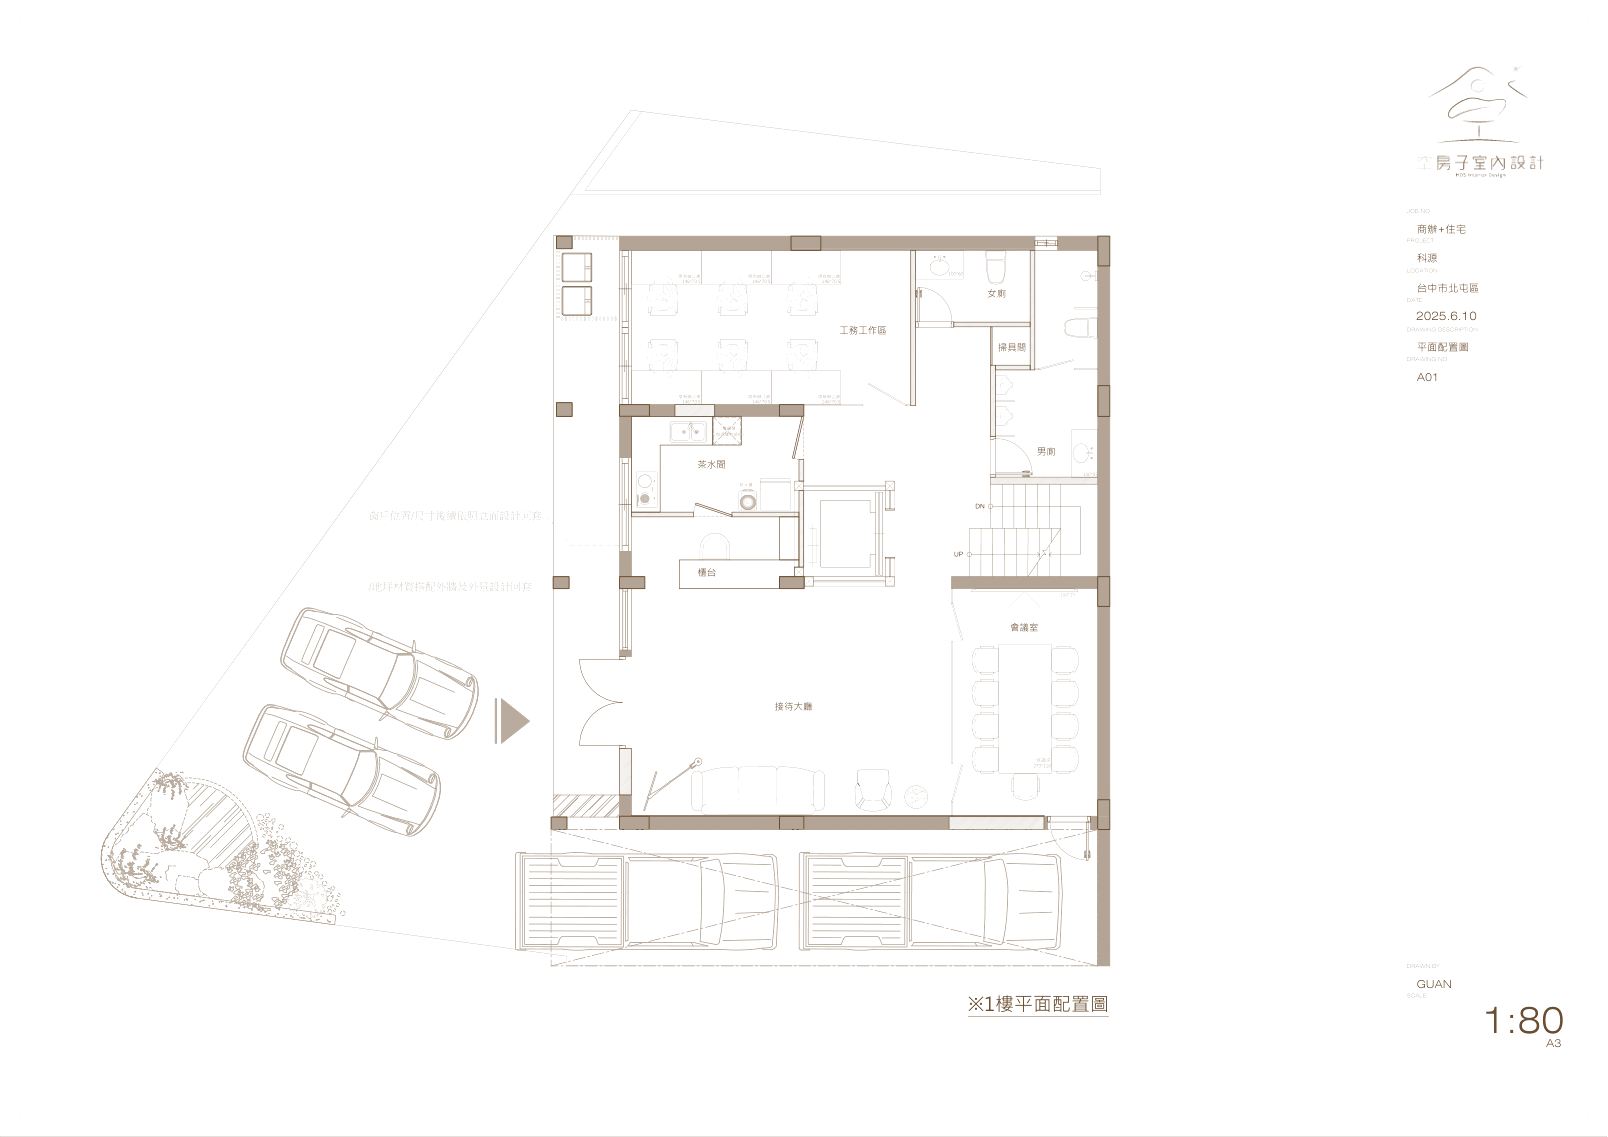
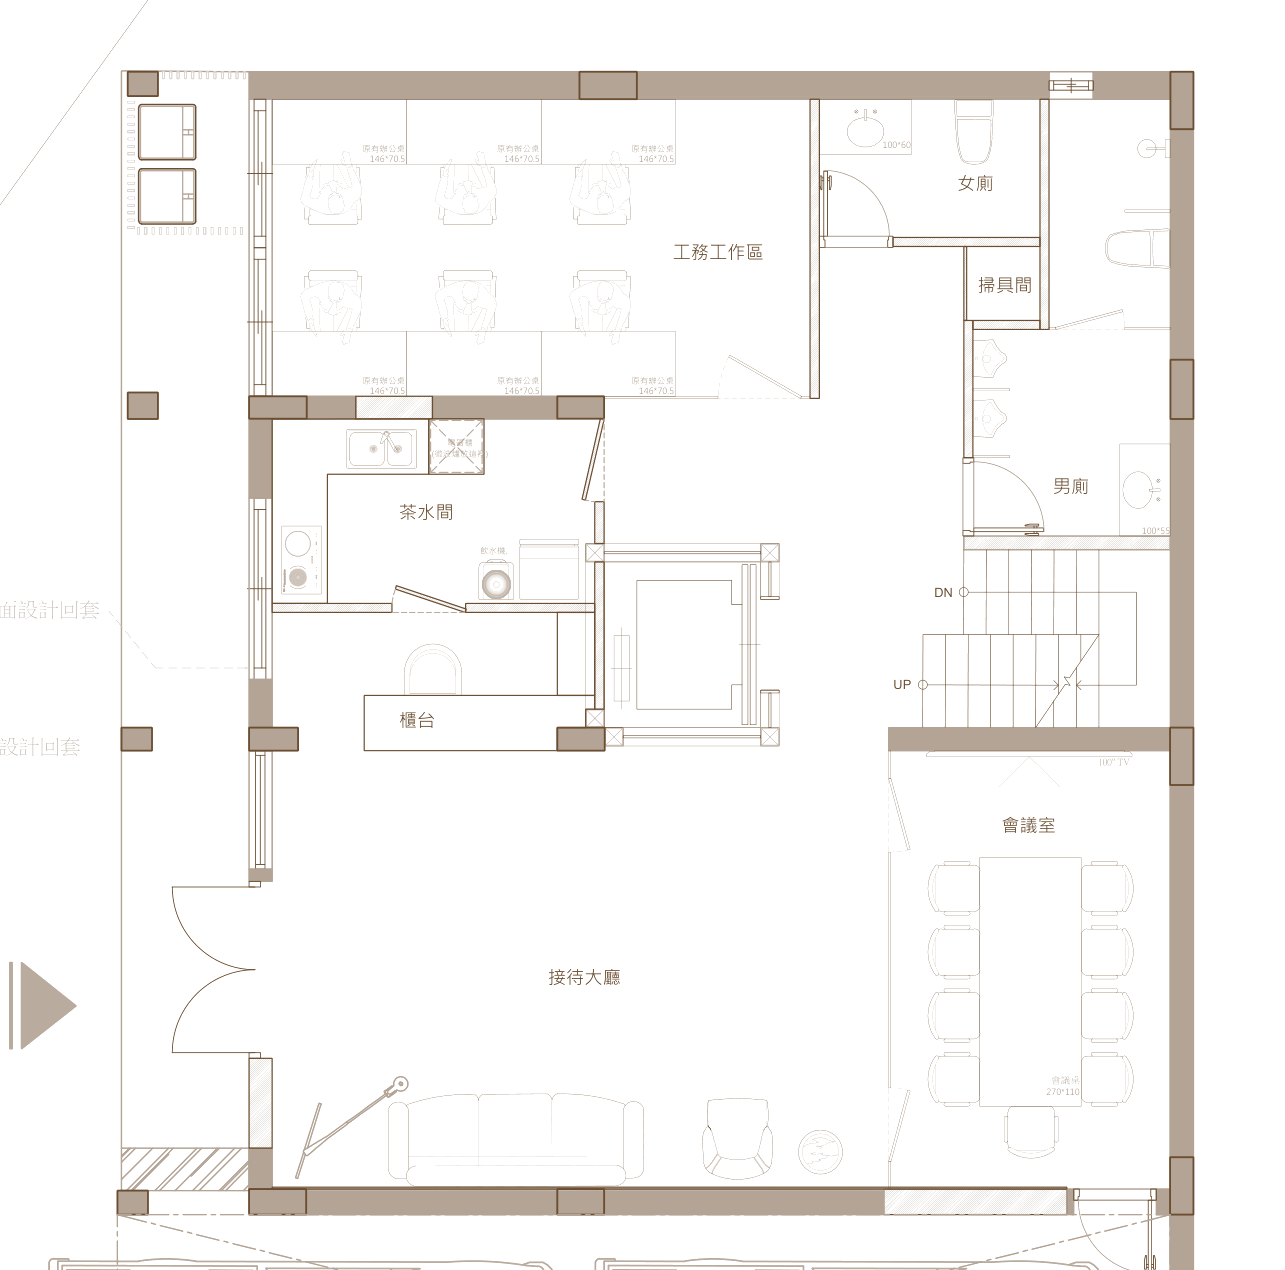
平面圖改用乾淨建物裁切版，置中放大、傾斜、放滿區塊、加深至0.46
Claude-Session: https://claude.ai/code/session_01Wm3jhjPCgg9FD9jxGEu7Nb

diff --git a/app/construction/construction-client.tsx b/app/construction/construction-client.tsx
@@ -147,7 +147,7 @@ export default function ConstructionPage() {
         .bp-plan :is(line,rect,circle,path) { stroke-dasharray: 2600; stroke-dashoffset: 2600; }
         .bp-plan text { opacity: 0; }
         .bp-plan-img { opacity: 0; transition: opacity 1.6s ease; }
-        .bp-wrap.in-view .bp-plan-img { opacity: 0.42; }
+        .bp-wrap.in-view .bp-plan-img { opacity: 0.46; }
         .bp-wrap.in-view .bp-plan :is(line,rect,circle,path) { animation: bpDraw 1.7s ease forwards; }
         .bp-wrap.in-view .bp-plan text { animation: bpFade 1s ease 1s forwards; }
         @keyframes bpDraw { to { stroke-dashoffset: 0; } }
@@ -160,7 +160,7 @@ export default function ConstructionPage() {
           .bp-grid { animation: none; }
           .bp-plan :is(line,rect,circle,path) { stroke-dashoffset: 0; animation: none; }
           .bp-plan text { opacity: 1; animation: none; }
-          .bp-plan-img { opacity: 0.42; transition: none; }
+          .bp-plan-img { opacity: 0.46; transition: none; }
         }
         .service-card:hover { border-color: ${colors.services_accent} !important; background: ${colors.strengths_bg} !important; }
         .portfolio-item:hover .portfolio-overlay { opacity: 1 !important; }
@@ -269,14 +269,14 @@ export default function ConstructionPage() {
             className="bp-plan-img"
             style={{
               position: "absolute",
-              right: "-6%",
+              left: "50%",
               top: "50%",
-              transform: "translateY(-50%) rotate(-9deg)",
-              width: "min(1120px, 90%)",
+              transform: "translate(-50%, -50%) rotate(-8deg)",
+              width: "min(1500px, 112%)",
               height: "auto",
               pointerEvents: "none",
-              WebkitMaskImage: "radial-gradient(140% 120% at 58% 50%, #000 64%, transparent 97%)",
-              maskImage: "radial-gradient(140% 120% at 58% 50%, #000 64%, transparent 97%)",
+              WebkitMaskImage: "radial-gradient(150% 135% at 50% 50%, #000 76%, transparent 100%)",
+              maskImage: "radial-gradient(150% 135% at 50% 50%, #000 76%, transparent 100%)",
             }}
           />
         </div>
